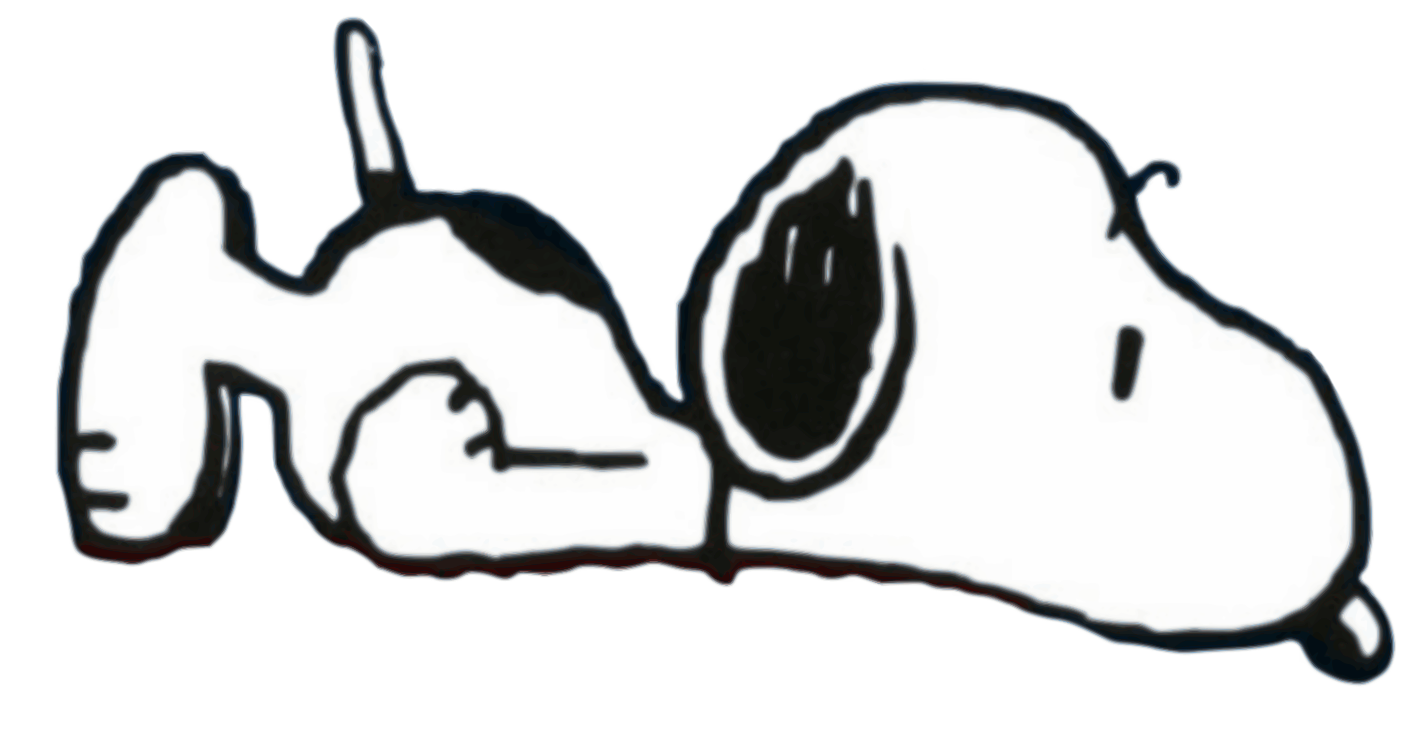
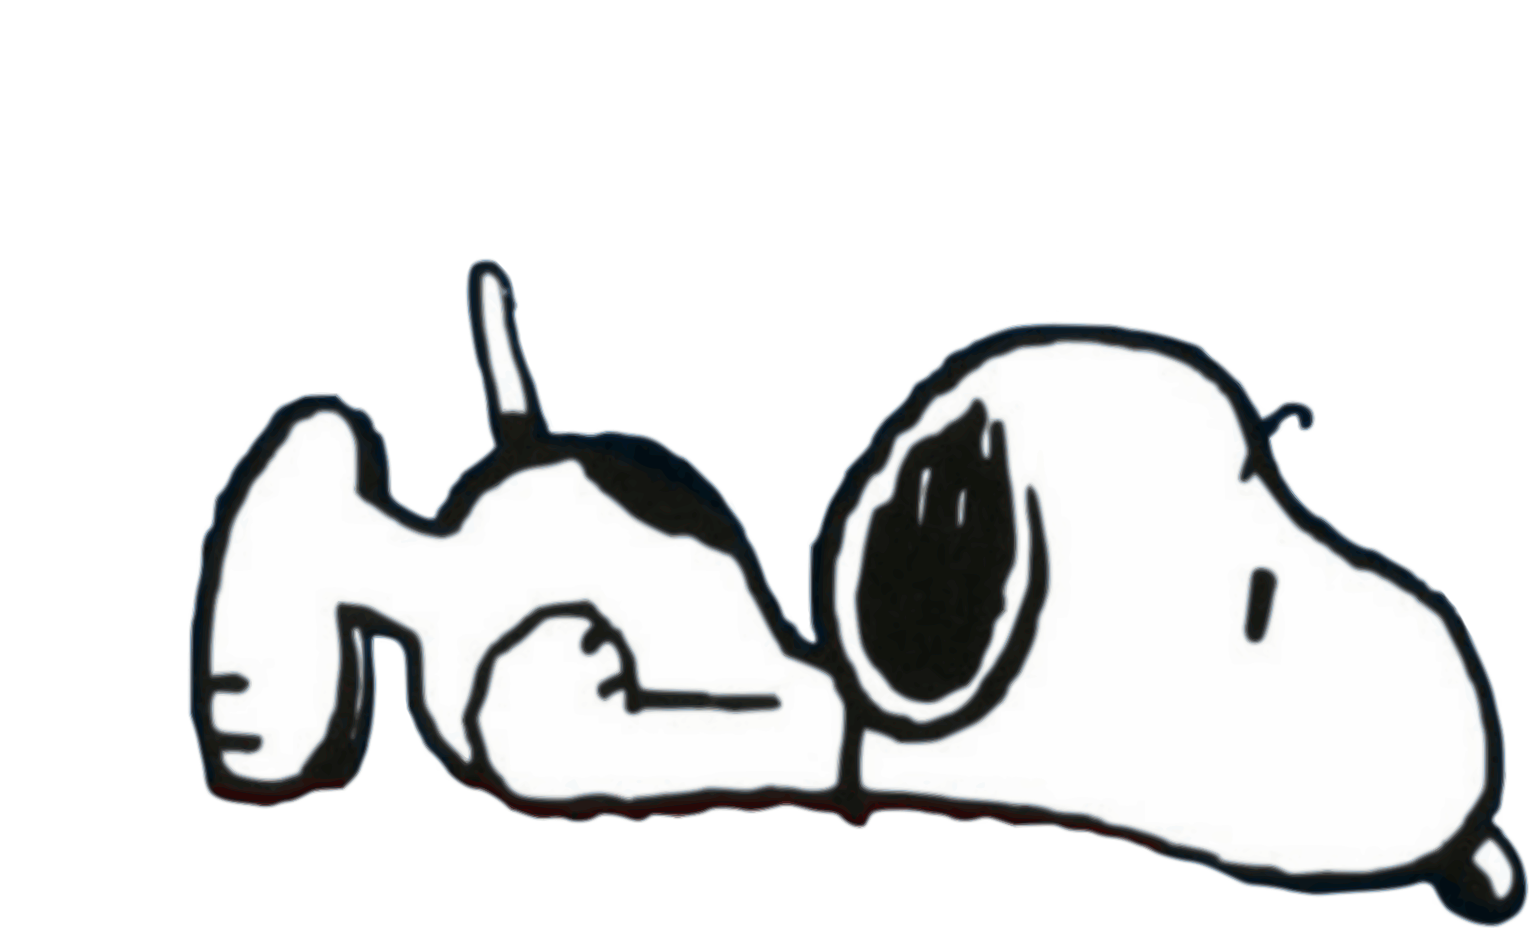
images are switching

Changed region(s): [[0.0309, 0.0309, 1.0, 1.0], [0.8039, 0.5874, 0.8349, 0.711]]

diff --git a/src/app/analog-clock/analog-clock.component.ts b/src/app/analog-clock/analog-clock.component.ts
@@ -14,6 +14,8 @@ export class AnalogClockComponent implements OnInit {
   @ViewChild('woodstock', {static: false}) woodstock: ElementRef;
   @ViewChild('bubble', {static: false}) bubble: ElementRef;
   @ViewChild('snoopy', {static: false}) snoopy: ElementRef;
+  @ViewChild('background', {static: false}) background: ElementRef;
+
 
 
   private daysOfWeek = ['Sunday', 'Monday', 'Tuesday', 'Wednesday', 'Thursday', 'Friday', 'Saturday']
@@ -24,7 +26,7 @@ export class AnalogClockComponent implements OnInit {
   public second: string;
   public ampm: string;
   public day: string;
-  public backgound: string;
+  public backgroundImg: string;
   public woodstockImg: string;
   public snoopyImg: string;
   public bubbleImg: string;
@@ -50,7 +52,7 @@ export class AnalogClockComponent implements OnInit {
 
     this.ampm = hours >= 12 ? 'PM' : 'AM'
 
-    this.backgound = hours > 6 && hours < 18 ? "url('../../assets/images/daytime.jpg')" : "url('../../assets/images/nighttime.jpg')"
+
     this.hour = hours % 12;
 
     this.hour = this.hour ? this.hour : 12;
@@ -65,8 +67,11 @@ export class AnalogClockComponent implements OnInit {
     this.bubbleImg = minutes > 14 && minutes < 45 ? "url('../../assets/images/bubbleLeft.png')" : "url('../../assets/images/bubbleRight.png')"
     this.bubble.nativeElement.style.backgroundImage = this.bubbleImg
 
-    this.snoopyImg = hours > 0 && hours < 1 ? "url('../../assets/images/upright.png')" : hours >= 1 && hours < 3 ? "url('../../assets/images/rightSit.png')" : hours >= 3 && hours < 4 ? "url('../../assets/images/right.png')" : hours >= 4 && hours < 6 ? "url('../../assets/images/downleft.png')" : hours >= 8 && hours < 9 ? "url('../../assets/images/left.png')" : hours >= 9 && hours < 11 ? "url('../../assets/images/leftSit.png')" : hours >= 11 && hours < 12 ? "url('../../assets/images/upleft.png')" : "url('../../assets/images/upright.png')"
+    this.snoopyImg = minutes >= 0 && minutes < 10 ? "url('../../assets/images/upright.png')" : minutes >= 10 && minutes < 15 ? "url('../../assets/images/rightSit.png')" : minutes >= 15 && minutes < 20 ? "url('../../assets/images/right.png')" : minutes >= 20 && minutes < 30 ? "url('../../assets/images/downright.png')" : minutes >=30 && minutes < 40 ? "url('../../assets/images/downleft.png')" : minutes >= 40 && minutes < 45 ? "url('../../assets/images/left.png')" : minutes >= 45 && minutes < 50 ? "url('../../assets/images/leftSit.png')" : minutes >= 50 && minutes <= 59 ? "url('../../assets/images/upleft.png')" : "url('../../assets/images/upright.png')"
     this.snoopy.nativeElement.style.backgroundImage = this.snoopyImg
+
+    this.backgroundImg = hours > 6 && hours < 18 ? "url('../../assets/images/daytime.jpg')" : "url('../../assets/images/nighttime.jpg')"
+    this.background.nativeElement.style.backgroundImage = this.backgroundImg
   }
   playAudio(){
     // let audio = new Audio();

diff --git a/src/app/analog-clock/analog-clock.component.scss b/src/app/analog-clock/analog-clock.component.scss
@@ -67,7 +67,7 @@ h2 {
   background-image: url('../../assets/images/rightsit.png');
   background-size: contain;
   background-repeat: no-repeat;
-  background-position: center;
+  background-position: center bottom;
   // top: 10%;
 }
 
